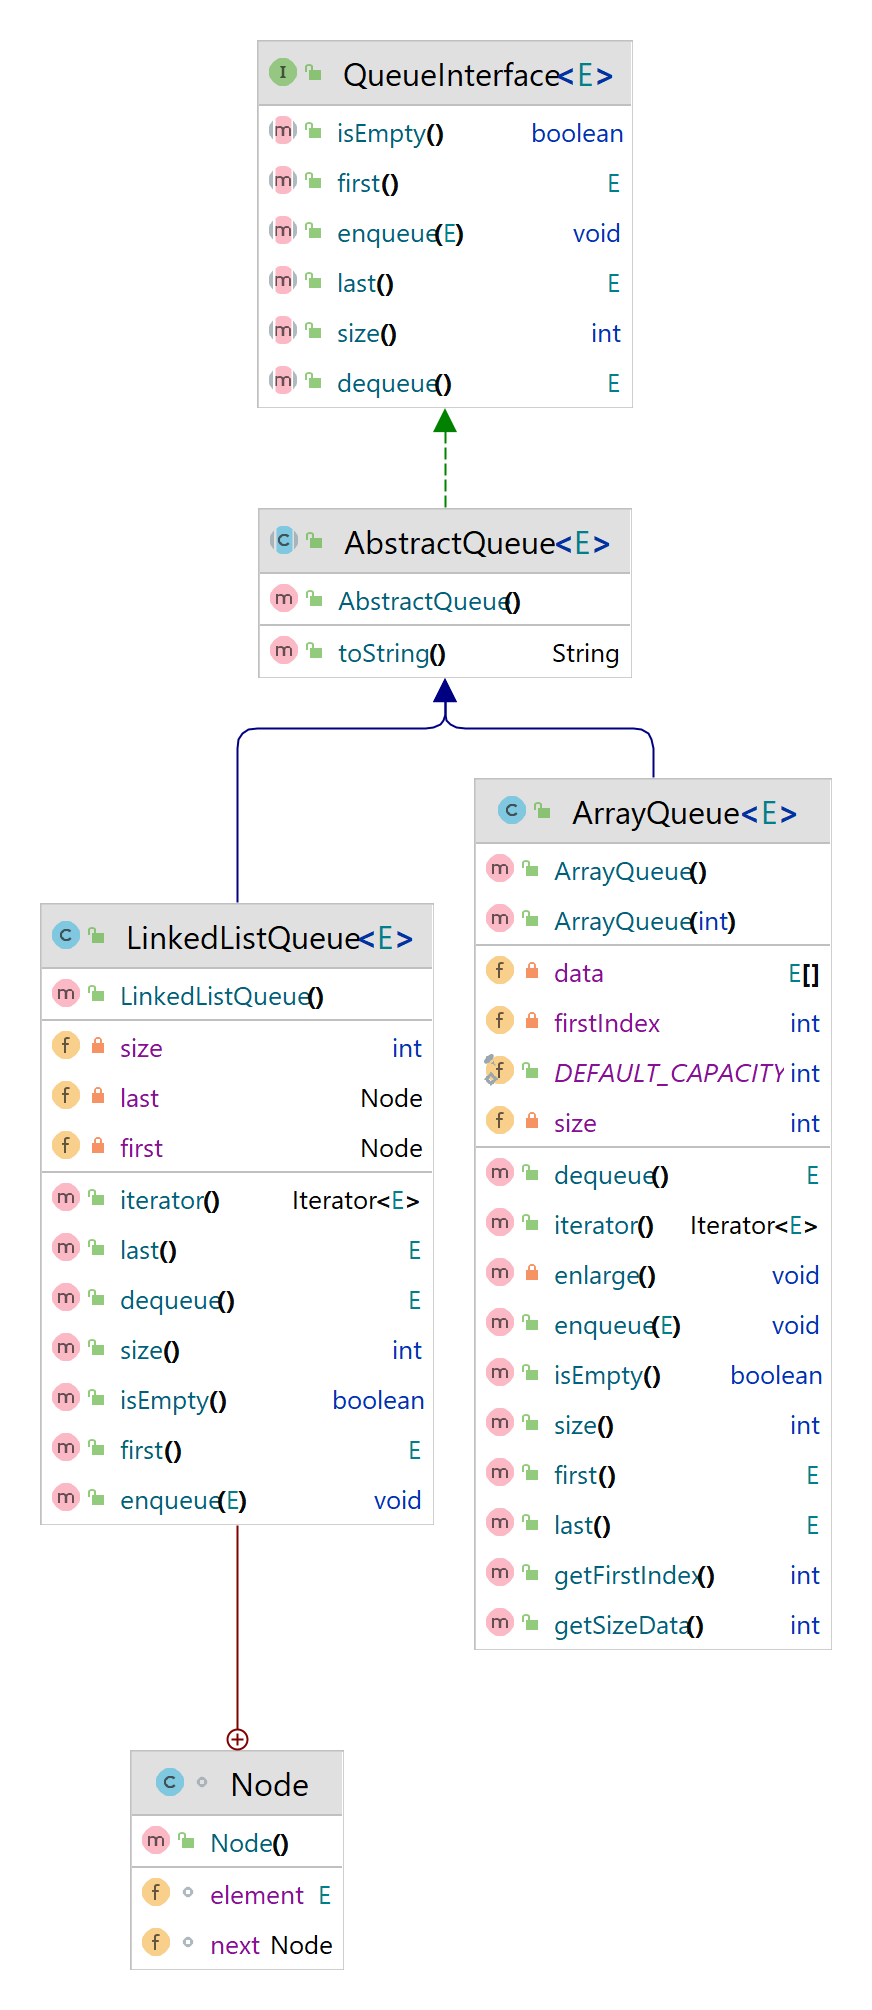
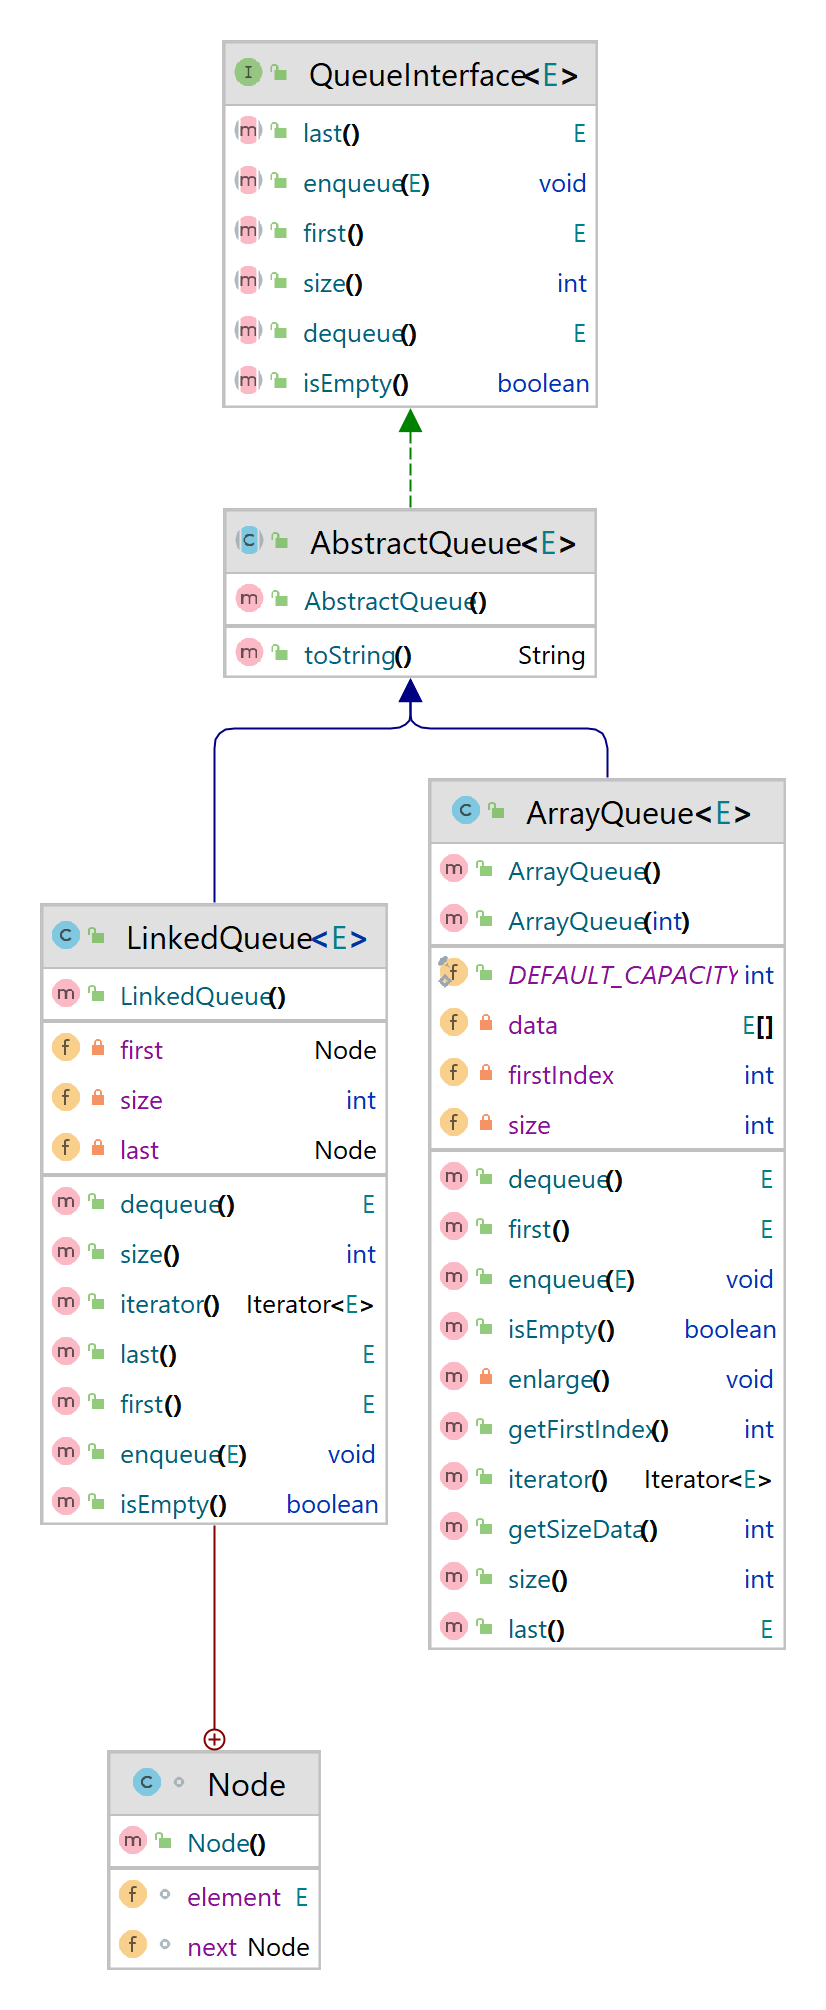
Update some diagram png

Changed region(s): [[0.0303, 0.3701, 0.9685, 0.9871], [0.2421, 0.0, 0.7264, 0.3701]]

diff --git a/src/src/components/components/datastructures/stack/linkedstack/LinkedStackScreen.java b/src/src/components/components/datastructures/stack/linkedstack/LinkedStackScreen.java
@@ -2,7 +2,7 @@ package src.components.components.datastructures.stack.linkedstack;
 
 
 import src.components.components.datastructures.stack.AbstractStackScreen;
-import src.models.datastructures.stack.LinkedListStack;
+import src.models.datastructures.stack.LinkedStack;
 
 public class LinkedStackScreen extends AbstractStackScreen {
     @Override
@@ -13,7 +13,7 @@ public class LinkedStackScreen extends AbstractStackScreen {
 
     @Override
     public void createStack() {
-        stack = new LinkedListStack<>();
+        stack = new LinkedStack<>();
         LinkedStackPanelNode node3 = new LinkedStackPanelNode(2, 4);
         LinkedStackPanelNode node2 = new LinkedStackPanelNode(1, 0);
         LinkedStackPanelNode node1 = new LinkedStackPanelNode(0, 1);

diff --git a/src/src/components/components/datastructures/queue/linkedqueue/LinkedQueueScreen.java b/src/src/components/components/datastructures/queue/linkedqueue/LinkedQueueScreen.java
@@ -1,7 +1,7 @@
 package src.components.components.datastructures.queue.linkedqueue;
 
 import src.components.components.datastructures.queue.AbstractQueueScreen;
-import src.models.datastructures.queue.LinkedListQueue;
+import src.models.datastructures.queue.LinkedQueue;
 
 public class LinkedQueueScreen extends AbstractQueueScreen {
     @Override
@@ -12,7 +12,7 @@ public class LinkedQueueScreen extends AbstractQueueScreen {
 
     @Override
     public void createQueue() {
-        queue = new LinkedListQueue<>();
+        queue = new LinkedQueue<>();
         LinkedQueuePanelNode node1 = new LinkedQueuePanelNode(0, 1);
         LinkedQueuePanelNode node2 = new LinkedQueuePanelNode(1, 0);
         LinkedQueuePanelNode node3 = new LinkedQueuePanelNode(2, 4);

diff --git a/src/src/models/datastructures/queue/LinkedQueue.java b/src/src/models/datastructures/queue/LinkedQueue.java
@@ -2,7 +2,7 @@ package src.models.datastructures.queue;
 
 import java.util.Iterator;
 
-public class LinkedListQueue<E> extends AbstractQueue<E> {
+public class LinkedQueue<E> extends AbstractQueue<E> {
     class Node {
         E element;
         Node next;
@@ -66,10 +66,10 @@ public class LinkedListQueue<E> extends AbstractQueue<E> {
 
     @Override
     public Iterator<E> iterator() {
-        return new LinkedListQueueIterator();
+        return new LinkedQueueIterator();
     }
 
-    private class LinkedListQueueIterator implements Iterator<E> {
+    private class LinkedQueueIterator implements Iterator<E> {
         private Node currentNode = first;
 
         @Override

diff --git a/src/src/models/datastructures/stack/LinkedStack.java b/src/src/models/datastructures/stack/LinkedStack.java
@@ -2,7 +2,7 @@ package src.models.datastructures.stack;
 
 import java.util.Iterator;
 
-public class LinkedListStack<E> extends AbstractStack<E> {
+public class LinkedStack<E> extends AbstractStack<E> {
     class Node {
         E element;
         Node next;
@@ -49,10 +49,10 @@ public class LinkedListStack<E> extends AbstractStack<E> {
 
     @Override
     public Iterator<E> iterator() {
-        return new MyStackIterator();
+        return new LinkedStackIterator();
     }
 
-    class MyStackIterator implements Iterator<E> {
+    class LinkedStackIterator implements Iterator<E> {
         private Node currentNode = stack;
 
         @Override

diff --git a/src/Main.java b/src/Main.java
@@ -32,9 +32,11 @@ public class Main {
           + Array Queue: Done
           + Linked Queue: Done
       + Priority Queue:
-          + Sorted Array Priority Queue:
-          + Sorted Linked Priority Queue:
-          + Min Heap Priority Queue:
+          + Unsorted Array Priority Queue: Done
+          + Sorted Array Priority Queue: Done
+          + Unsorted Linked Priority Queue: Done
+          + Sorted Linked Priority Queue: Done
+          + Min Heap Priority Queue: Done
       + Tree:
           + Array Binary Tree:
           + Linked Binary Tree:

diff --git a/src/src/models/datastructures/stack/ArrayStack.java b/src/src/models/datastructures/stack/ArrayStack.java
@@ -45,10 +45,10 @@ public class ArrayStack<E> extends AbstractStack<E> {
 
     @Override
     public Iterator<E> iterator() {
-        return new MyStackIterator();
+        return new ArrayStackIterator();
     }
 
-    class MyStackIterator implements Iterator<E> {
+    class ArrayStackIterator implements Iterator<E> {
         private int currentIndex = size-1;
 
         @Override
